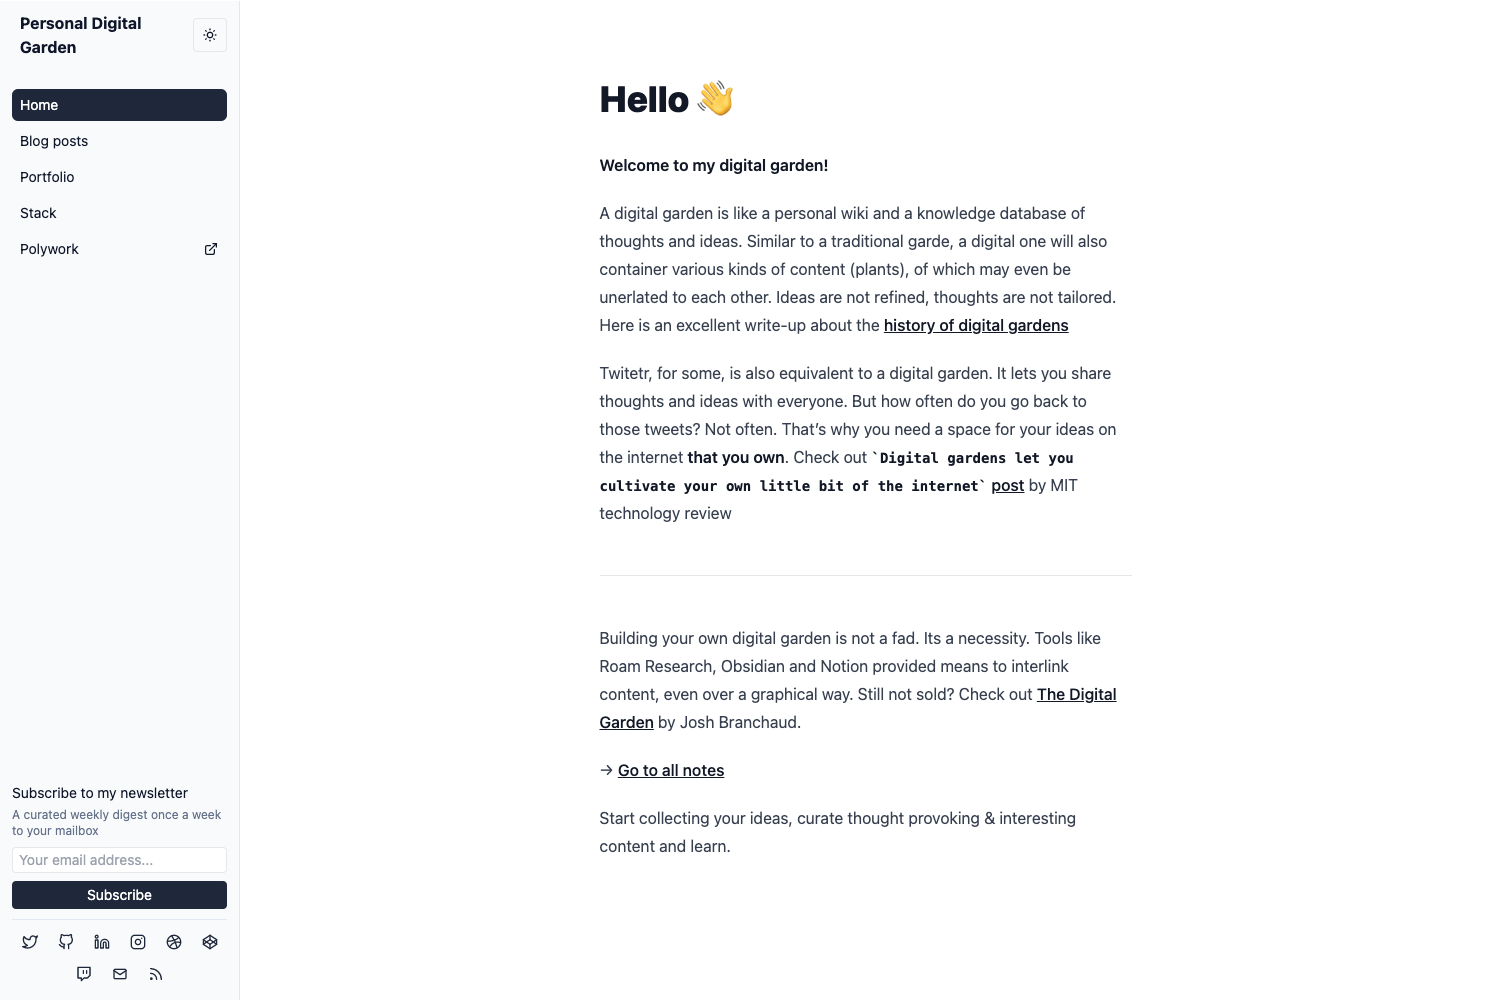
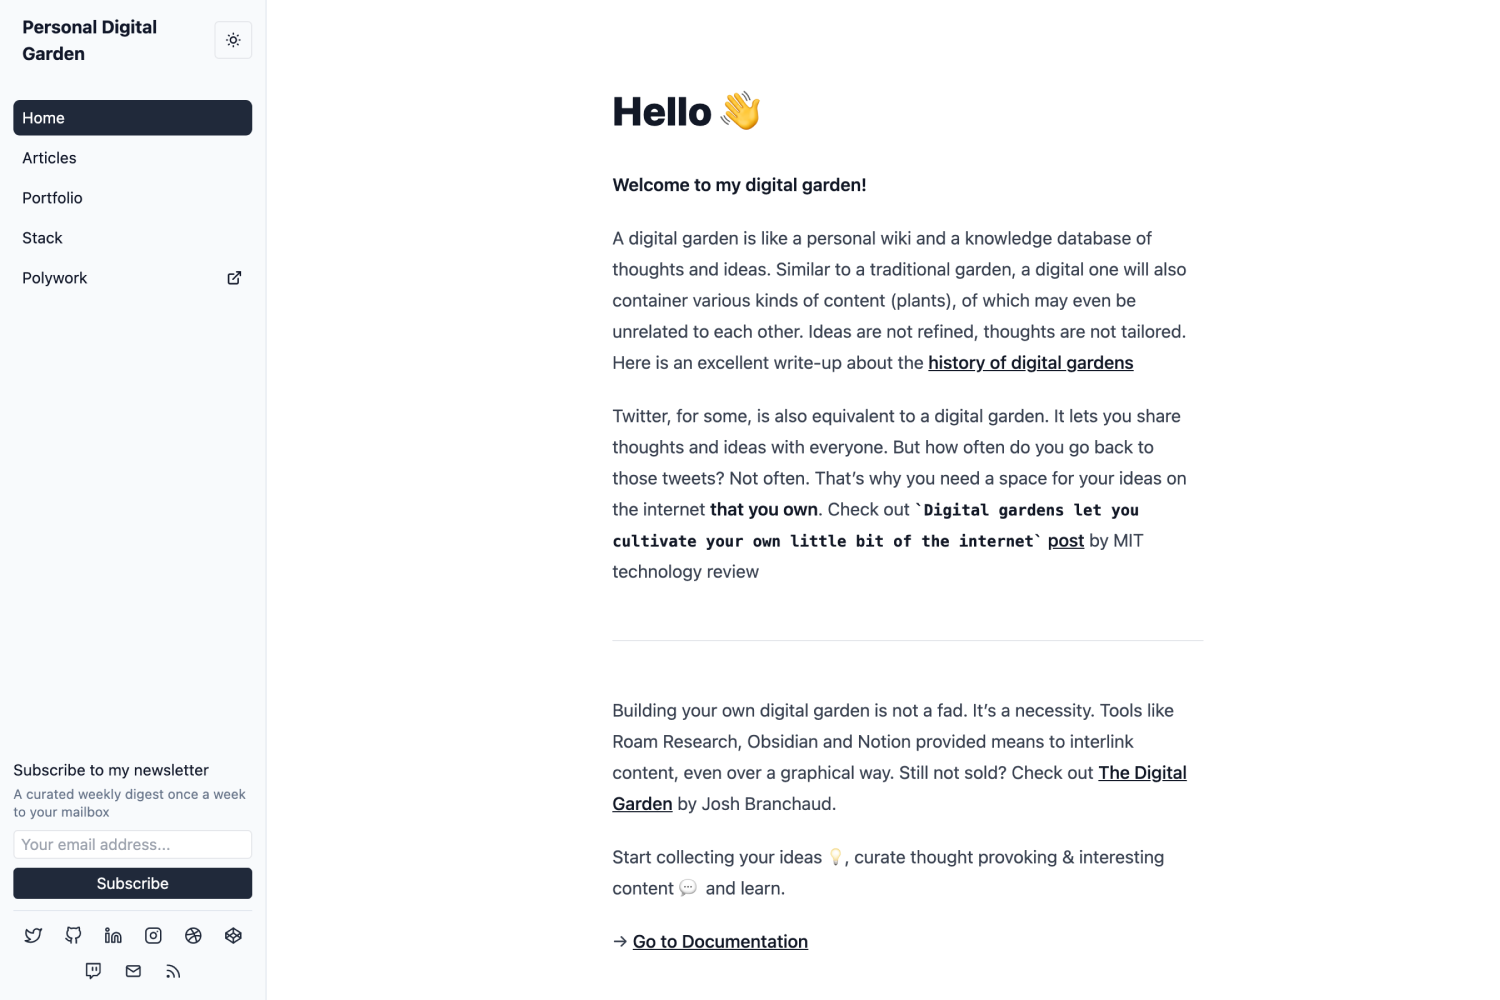
Update text and preview

diff --git a/exampleSite/content/_index.md b/exampleSite/content/_index.md
@@ -6,14 +6,14 @@ title: Homepage
 
 **Welcome to my digital garden!**
 
-A digital garden is like a personal wiki and a knowledge database of thoughts and ideas. Similar to a traditional garde, a digital one will also container various kinds of content (plants), of which may even be unerlated to each other. Ideas are not refined, thoughts are not tailored. Here is an excellent write-up about the [history of digital gardens](https://maggieappleton.com/garden-history)
+A digital garden is like a personal wiki and a knowledge database of thoughts and ideas. Similar to a traditional garden, a digital one will also container various kinds of content (plants), of which may even be unrelated to each other. Ideas are not refined, thoughts are not tailored. Here is an excellent write-up about the [history of digital gardens](https://maggieappleton.com/garden-history)
 
 
 Twitter, for some, is also equivalent to a digital garden. It lets you share thoughts and ideas with everyone. But how often do you go back to those tweets? Not often. That's why you need a space for your ideas on the internet **that you own**. Check out `Digital gardens let you cultivate your own little bit of the internet` [post](https://www.technologyreview.com/2020/09/03/1007716/digital-gardens-let-you-cultivate-your-own-little-bit-of-the-internet/) by MIT technology review 
 
 <hr />
 
-Building your own digital garden is not a fad. Its a necessity. Tools like Roam Research, Obsidian and Notion provided means to interlink content, even over a graphical way. Still not sold? Check out [The Digital Garden](https://dev.to/jbranchaud/the-digital-garden-l10) by Josh Branchaud.
+Building your own digital garden is not a fad. It's a necessity. Tools like Roam Research, Obsidian and Notion provided means to interlink content, even over a graphical way. Still not sold? Check out [The Digital Garden](https://dev.to/jbranchaud/the-digital-garden-l10) by Josh Branchaud.
 
 Start collecting your ideas 💡, curate thought provoking & interesting content 💬&nbsp; and learn.
 

diff --git a/exampleSite/content/articles/metatags.md b/exampleSite/content/articles/metatags.md
@@ -3,7 +3,7 @@ title: 7. Metatags
 date: 2021-12-18
 ---
 
-Metatags are used to provide additional information about the page, usualy used by search engines and social media websites / apps. It allows to customize yout page's title, description, preview image and more.
+Metatags are used to provide additional information about the page, usualy used by search engines and social media websites / apps. It allows to customize your page's title, description, preview image and more.
 
 ### Configure default tags
 

diff --git a/exampleSite/content/articles/structure.md b/exampleSite/content/articles/structure.md
@@ -23,6 +23,6 @@ Theme's content structure
 
 Note that articles, portfolio and also stack pages require you to create `_index.md` inside of it. Refer the [exampleSite](https://github.com/apvarun/digital-garden-hugo-theme/tree/main/exampleSite) in theme.
 
-All of thes sections are optional and you can decide not to utilize those layouts.
+All of these sections are optional and you can decide not to utilize those layouts.
 
 → [Configure Primary Menu](/articles/primary-menu)

diff --git a/exampleSite/content/articles/newsletter.md b/exampleSite/content/articles/newsletter.md
@@ -13,7 +13,7 @@ Login to your Revue account and go to to `Account Settings`, then the `Integrati
 
 ![Revue signup forms](https://downloads.intercomcdn.com/i/o/304891471/587879182e5d9d19aff97d2f/Screenshot+2021-02-26+at+9.10.32+AM.png)
 
-In the enxt page, you can find the add_subscriber URL.
+In the next page, you can find the add_subscriber URL.
 
 ![Revue URL](https://github.com/apvarun/digital-garden-hugo-theme/blob/main/images/revue-signup-form-url.png?raw=true)
 

diff --git a/exampleSite/content/articles/primary-menu.md b/exampleSite/content/articles/primary-menu.md
@@ -21,7 +21,7 @@ The sidebar of the theme uses the `main` menu. Add all the items for your sideba
 
 - name → Title of the menu item
 - url → Path to navigate
-- weight → USed to decide the order of menu items
+- weight → Used to decide the order of menu items
 
 If the link points to an external website, the external icon is already displayed.
 

diff --git a/exampleSite/content/articles/installation.md b/exampleSite/content/articles/installation.md
@@ -21,4 +21,4 @@ Clone the repository (one-off, updating the theme may be harder later):
 git clone https://github.com/apvarun/blist-hugo-theme.git themes/blist
 ```
 
-→ [Understanding the theme's structure](/articles/structure)
+→ [Understanding the theme structure](/articles/structure)
